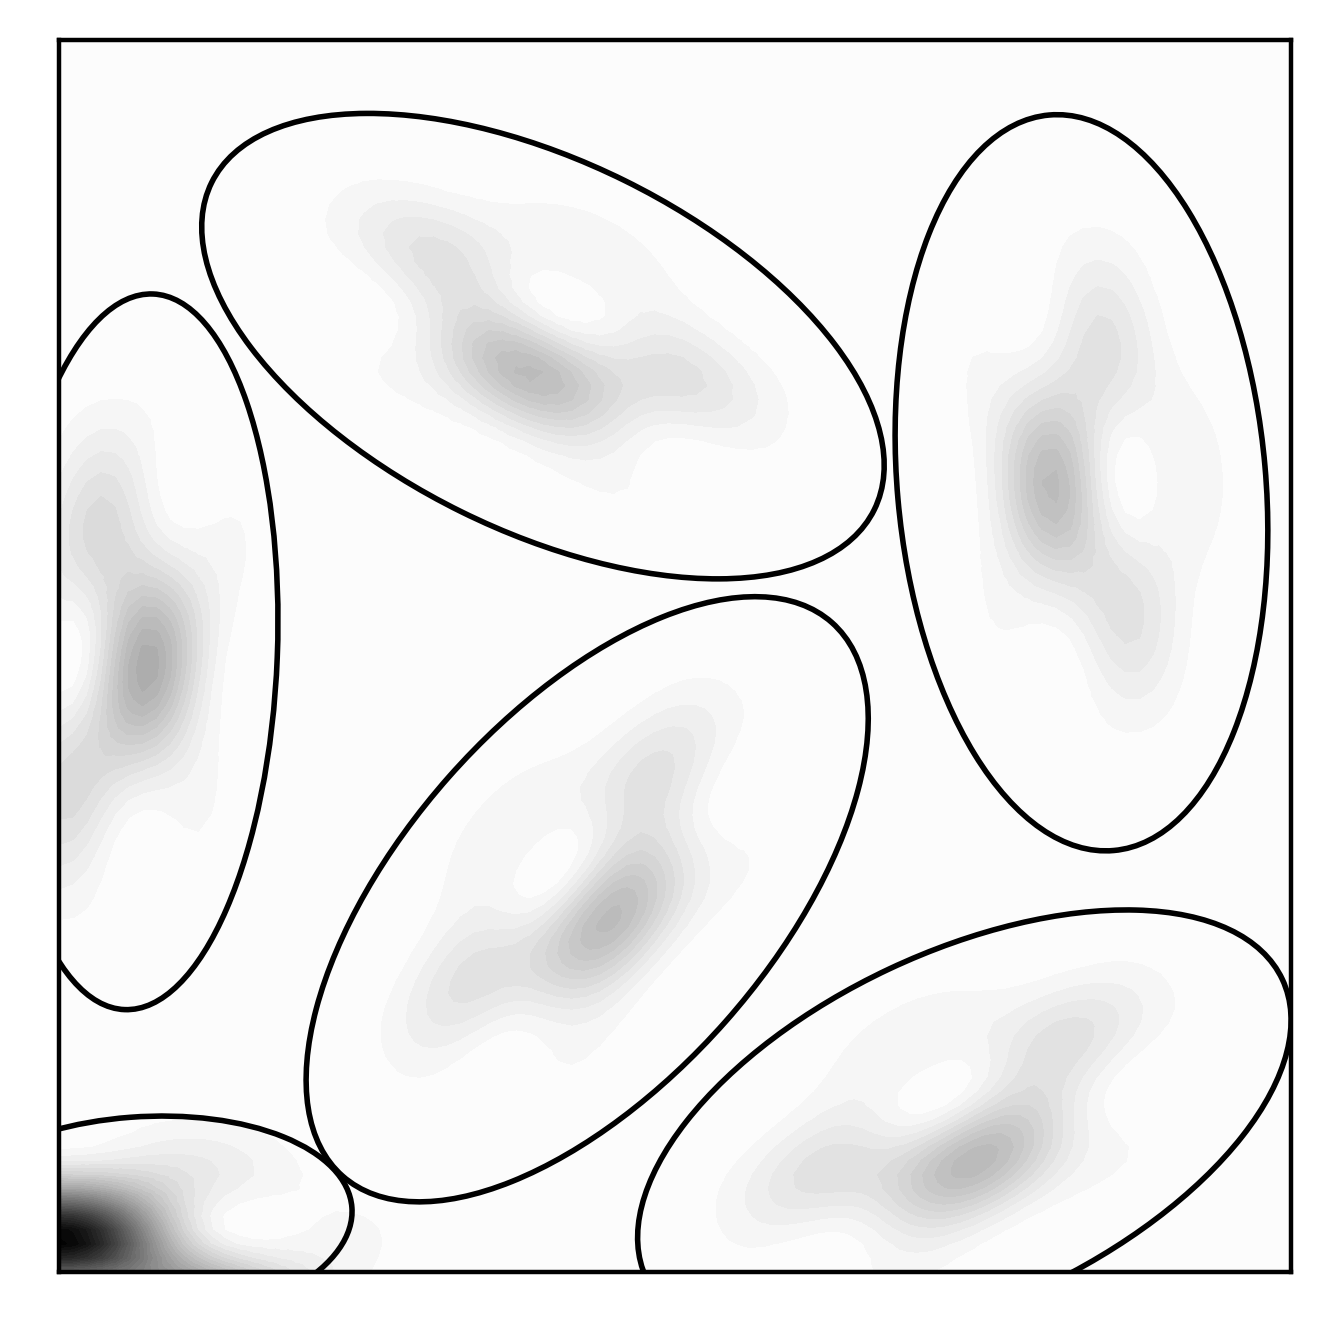
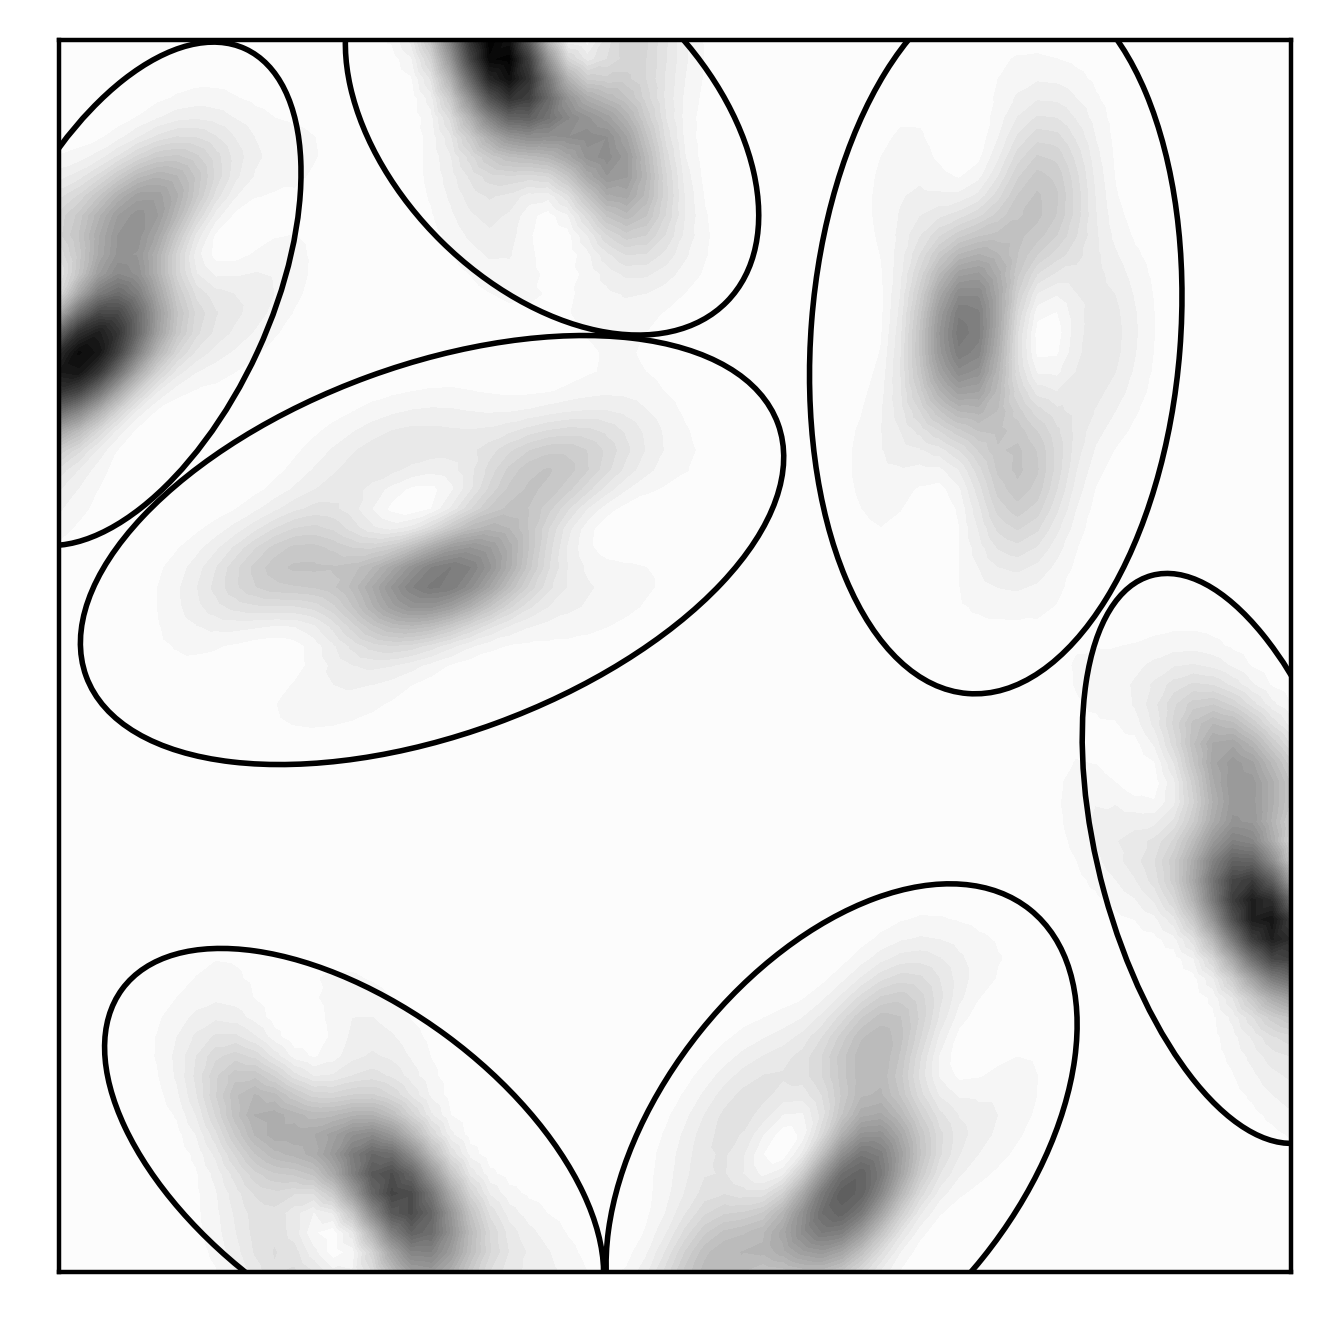
ring of error around center between 0.35 and 0.36. maybe theta branch cut issue?

diff --git a/numerical_examples/blur/blur_example.py b/numerical_examples/blur/blur_example.py
@@ -4,15 +4,11 @@ import matplotlib.gridspec as gridspec
 import dolfin as dl
 import localpsf.localpsf_cg1_lumped as lpsf1
 import scipy.linalg as sla
+from functools import partial
 from nalger_helper_functions import plot_ellipse
+from tqdm.auto import tqdm
 
 save_figures = True
-
-nx = 89
-ny = 89
-mesh = dl.UnitSquareMesh(nx, ny)
-Vh = dl.FunctionSpace(mesh, 'CG', 1)
-dof_coords = Vh.tabulate_dof_coordinates()
 
 # Frog function
 def frog_function(
@@ -35,46 +31,65 @@ def frog_function(
     t_squared_over_sigma_squared = np.einsum('ai,ai->a', pp, np.einsum('ij,aj->ai', inv_Sigma, pp))
     G = vol / (2.0 * np.pi * np.sqrt(np.linalg.det(Sigma))) * np.exp(-0.5 * t_squared_over_sigma_squared)
 
-    # V = 2.0 + np.cos(4.0 * np.pi * np.sqrt((mu[0] - 0.5)**2 + (mu[1]-0.5)**2))
-    #
-    # cos_x_over_sigma = np.cos(pp[:,0] / (np.sqrt(Sigma[0,0]) / 2.0))
-    # sin_y_over_sigma = np.sin(pp[:,1] / (np.sqrt(Sigma[1,1]) / 2.0))
-    # return V * (1.0 + a * cos_x_over_sigma * sin_y_over_sigma) * G
-
     cos_x_over_sigma = np.cos(pp[:,0] / (np.sqrt(Sigma[0,0]) / 2.0))
     sin_y_over_sigma = np.sin(pp[:,1] / (np.sqrt(Sigma[1,1]) / 2.0))
     return (1.0 + a * cos_x_over_sigma * sin_y_over_sigma) * G
 
 
-length_scaling = 1.0 # <--- Tucker: experiment with this
-vol = 1.0
-mu = np.array([0.5, 0.5])
-Sigma = length_scaling * np.array([[0.01, 0.0], [0.0, 0.0025]]) # 0.25*np.array([[0.01, 0.0], [0.0, 0.0025]])
+def frog_setup(
+        nx:             int     = 63,
+        length_scaling: float   = 1.0,
+        a:              float   = 1.0,
+):
+    ny = nx
+    mesh = dl.UnitSquareMesh(nx, ny)
+    Vh = dl.FunctionSpace(mesh, 'CG', 1)
+    dof_coords = Vh.tabulate_dof_coordinates()
+
+    vol = 1.0
+
+    Sigma = length_scaling * np.array([[0.01, 0.0], [0.0, 0.0025]]) # 0.25*np.array([[0.01, 0.0], [0.0, 0.0025]])
+
+    phi_function = lambda yy, x: frog_function(yy, vol, x, Sigma, a)
+
+    Ker = np.zeros((Vh.dim(), Vh.dim()))
+    for ii in range(Vh.dim()):
+        Ker[:,ii] = phi_function(dof_coords, dof_coords[ii,:])
+
+    mass_lumps = dl.assemble(dl.Constant(1.0) * dl.TestFunction(Vh) * dl.dx)[:].copy()
+
+    H = mass_lumps.reshape((-1, 1)) * Ker * mass_lumps.reshape((1, -1))
+
+    return Ker, phi_function, Vh, H, mass_lumps, dof_coords
+
+nearest_ind_func = lambda yy, x: np.argmin(np.linalg.norm(yy - x.reshape((1, -1)), axis=1))
+
+nx = 63
+length_scaling = 1.0
 a = 1.0
+Ker, phi_function, Vh, H, mass_lumps, dof_coords = frog_setup(nx, length_scaling, a)
+dof_coords = Vh.tabulate_dof_coordinates()
 
-rr = frog_function(dof_coords, vol, mu, Sigma, a)
+p = np.array([0.5, 0.5])
 
-f1 = dl.Function(Vh)
-f1.vector()[:] = rr
+frog1 = dl.Function(Vh)
+frog1.vector()[:] = phi_function(dof_coords, p)
 
 num_pts_1d = 500
-coords_1d = np.array([mu[0]*np.ones(num_pts_1d), np.linspace(0, 1, num_pts_1d)]).T # vertical line
+coords_1d = np.array([p[0]*np.ones(num_pts_1d), np.linspace(0, 1, num_pts_1d)]).T # vertical line
 
 plt.figure()
-cm = dl.plot(f1)
-plt.colorbar(cm)
-plt.title('f1')
+cm = dl.plot(frog1, cmap='binary')
+plt.gca().set_xticks([])
+plt.gca().set_yticks([])
+plt.title('frog1')
 plt.plot(coords_1d[:,0], coords_1d[:,1], '.r')
 
-rr_1d = frog_function(coords_1d, vol, mu, Sigma, a)
+rr_1d = phi_function(coords_1d, p)
 
 plt.figure()
 plt.plot(rr_1d)
 plt.title('rr_1d')
-
-Ker = np.zeros((Vh.dim(), Vh.dim()))
-for ii in range(Vh.dim()):
-    Ker[:,ii] = frog_function(dof_coords, vol, dof_coords[ii,:], Sigma, a)
 
 
 #### Impulse response grid plot
@@ -89,7 +104,7 @@ gs1 = gridspec.GridSpec(num_pts_x, num_pts_y)
 gs1.update(wspace=0.025, hspace=0.05) # set the spacing between axes.
 for k in range(len(pp)):
     p = pp[k]
-    ii = np.argmin(np.linalg.norm(dof_coords - p.reshape((1, -1)), axis=1))
+    ii = nearest_ind_func(dof_coords, p)
     phi = dl.Function(Vh)
     phi.vector()[:] = Ker[:, ii].copy()
     plt.subplot(gs1[k])
@@ -113,7 +128,7 @@ plt.gca().set_yticks([])
 
 for k in range(len(pp)):
     p = pp[k]
-    ii = np.argmin(np.linalg.norm(dof_coords - p.reshape((1, -1)), axis=1))
+    ii = nearest_ind_func(dof_coords, p)
     print('k=', k, ', ii=', ii)
     plt.plot([ii, ii], [0, Ker.shape[0]], 'k', linestyle='dotted', linewidth=2.0)
 
@@ -122,7 +137,7 @@ plt.savefig('frog_kernel_matrix_a1.png', bbox_inches='tight', dpi=400) if save_f
 
 for k in range(len(pp)):
     p = pp[k]
-    ii = np.argmin(np.linalg.norm(dof_coords - p.reshape((1, -1)), axis=1))
+    ii = nearest_ind_func(dof_coords, p)
     phi = dl.Function(Vh)
     phi.vector()[:] = Ker[:, ii].copy()
     plt.figure(figsize=(3.8, 3.8))
@@ -132,20 +147,11 @@ for k in range(len(pp)):
     plt.savefig('frog_impulse_response' + str(k) + '.png', bbox_inches='tight', dpi=400) if save_figures else None
 
 
-####
-
-mass_lumps = dl.assemble(dl.Constant(1.0) * dl.TestFunction(Vh) * dl.dx)[:].copy()
-
-H = mass_lumps.reshape((-1, 1)) * Ker * mass_lumps.reshape((1, -1))
-
-apply_H = lambda X: H @ X
-apply_Ht = lambda X: H.T @ X
-
-verts, cells = lpsf1.mesh_vertices_and_cells_in_CG1_dof_order(Vh)
-Vh_CG1 = lpsf1.CG1Space(verts, cells, mass_lumps)
+#### Create PSF approximation
 
 psf_object = lpsf1.make_psf_fenics(
-    apply_H, apply_Ht,
+    lambda X: H @ X,
+    lambda X: H.T @ X,
     Vh, Vh,
     mass_lumps, mass_lumps,
     tau = 3.0, display=True,
@@ -271,77 +277,52 @@ for b in bb:
 
     plt.savefig('frog_impulse_batch' + str(b) + '.png', bbox_inches='tight', dpi=400) if save_figures else None
 
-# plt.title('Impulse response batch ' + str(b))
 
-# cm = dl.plot(phi)
+#### Compute error as a function of number of batches
 
+nx = 63
+length_scaling = 0.25
+a = 1.0
+Ker, phi_function, Vh, H, mass_lumps, dof_coords = frog_setup(nx, length_scaling, a)
 
+psf_object = lpsf1.make_psf_fenics(
+    lambda X: H @ X,
+    lambda X: H.T @ X,
+    Vh, Vh,
+    mass_lumps, mass_lumps,
+    num_initial_batches=0,
+    tau = 5.0, display=True,
+)
 
-# plt.title('Impulse response batch ' + str(b))
+all_num_batches = []
+all_num_impulses = []
+all_psf_errs = []
+for k in tqdm(range(Ker.shape[1])):
+    if psf_object.psf_object.impulse_response_batches.num_sample_points >= Ker.shape[1]:
+        break
+    psf_object.add_impulse_response_batch()
+    num_batches = psf_object.num_batches
+    num_impulses = psf_object.psf_object.impulse_response_batches.num_sample_points
+    Ker_psf = psf_object.psf_object.psf_kernel.cpp_object.eval_integral_kernel_block(dof_coords.T, dof_coords.T)
+    err_psf = np.linalg.norm(Ker_psf - Ker) / np.linalg.norm(Ker)
+    all_num_batches.append(num_batches)
+    all_num_impulses.append(num_impulses)
+    all_psf_errs.append(err_psf)
+    print('num_batches=', num_batches, ', num_impulses=', num_impulses, ', err_psf=', err_psf)
 
-# cm = dl.plot(phi)
-
-raise RuntimeError
-
-# plt.savefig('frog_impulse_response' + str(k) + '.png', bbox_inches='tight', dpi=400) if save_figures else None
-
-IRB = me.psf_object.impulse_response_batches
-fig = plt.figure()
-
-phi = me.impulse_response_batch(b)
-
-start = IRB.batch2point_start[b]
-stop = IRB.batch2point_stop[b]
-pp = IRB.sample_points[start:stop, :]
-mu_batch = IRB.sample_mu[start:stop, :]
-Sigma_batch = IRB.sample_Sigma[start:stop, :, :]
-
-cm = dl.plot(phi)
-plt.colorbar(cm)
-
-plt.scatter(pp[:, 0], pp[:, 1], c='r', s=2)
-plt.scatter(mu_batch[:, 0], mu_batch[:, 1], c='k', s=2)
-
-for k in range(mu_batch.shape[0]):
-    plot_ellipse(mu_batch[k, :], Sigma_batch[k, :, :], n_std_tau=IRB.tau,
-                 facecolor='none', edgecolor='k', linewidth=1)
-
-plt.title('Impulse response batch ' + str(b))
-
-####
-
-psf_object.visualize_impulse_response_batch(0)
+plt.semilogy(all_num_impulses, all_psf_errs)
 
 plt.figure()
-cm = dl.plot(psf_object.vol())
+ii = nearest_ind_func(dof_coords, np.array([0.5, 0.5]))
+e_func = dl.Function(Vh)
+e_func.vector()[:] = Ker_psf[:,ii] - Ker[:,ii]
+cm = dl.plot(e_func, cmap='binary')
 plt.colorbar(cm)
-plt.title('vol')
 
-plt.figure()
-cm = dl.plot(psf_object.mu(0))
-plt.colorbar(cm)
-plt.title('mu(0)')
+U,ss,Vt = np.linalg.svd(Ker)
 
-plt.figure()
-cm = dl.plot(psf_object.mu(1))
-plt.colorbar(cm)
-plt.title('mu(1)')
+for r in range(1, len(ss)+1):
+err_glr = np.linalg.norm(U[:,:r] @ np.diag(ss[:r]) @ Vt[:r,:] - Ker) / np.linalg.norm(Ker)
+print('err_glr=', err_glr)
 
-plt.figure()
-cm = dl.plot(psf_object.Sigma(0,0))
-plt.colorbar(cm)
-plt.title('Sigma(0,0)')
-
-plt.figure()
-cm = dl.plot(psf_object.Sigma(0,1))
-plt.colorbar(cm)
-plt.title('Sigma(0,1)')
-
-plt.figure()
-cm = dl.plot(psf_object.Sigma(1,1))
-plt.colorbar(cm)
-plt.title('Sigma(1,1)')
-
-####
-
-# Frog example
+U_off, ss_off, Vt_off = np.linalg.svd(Ker[:2048,2048:])
